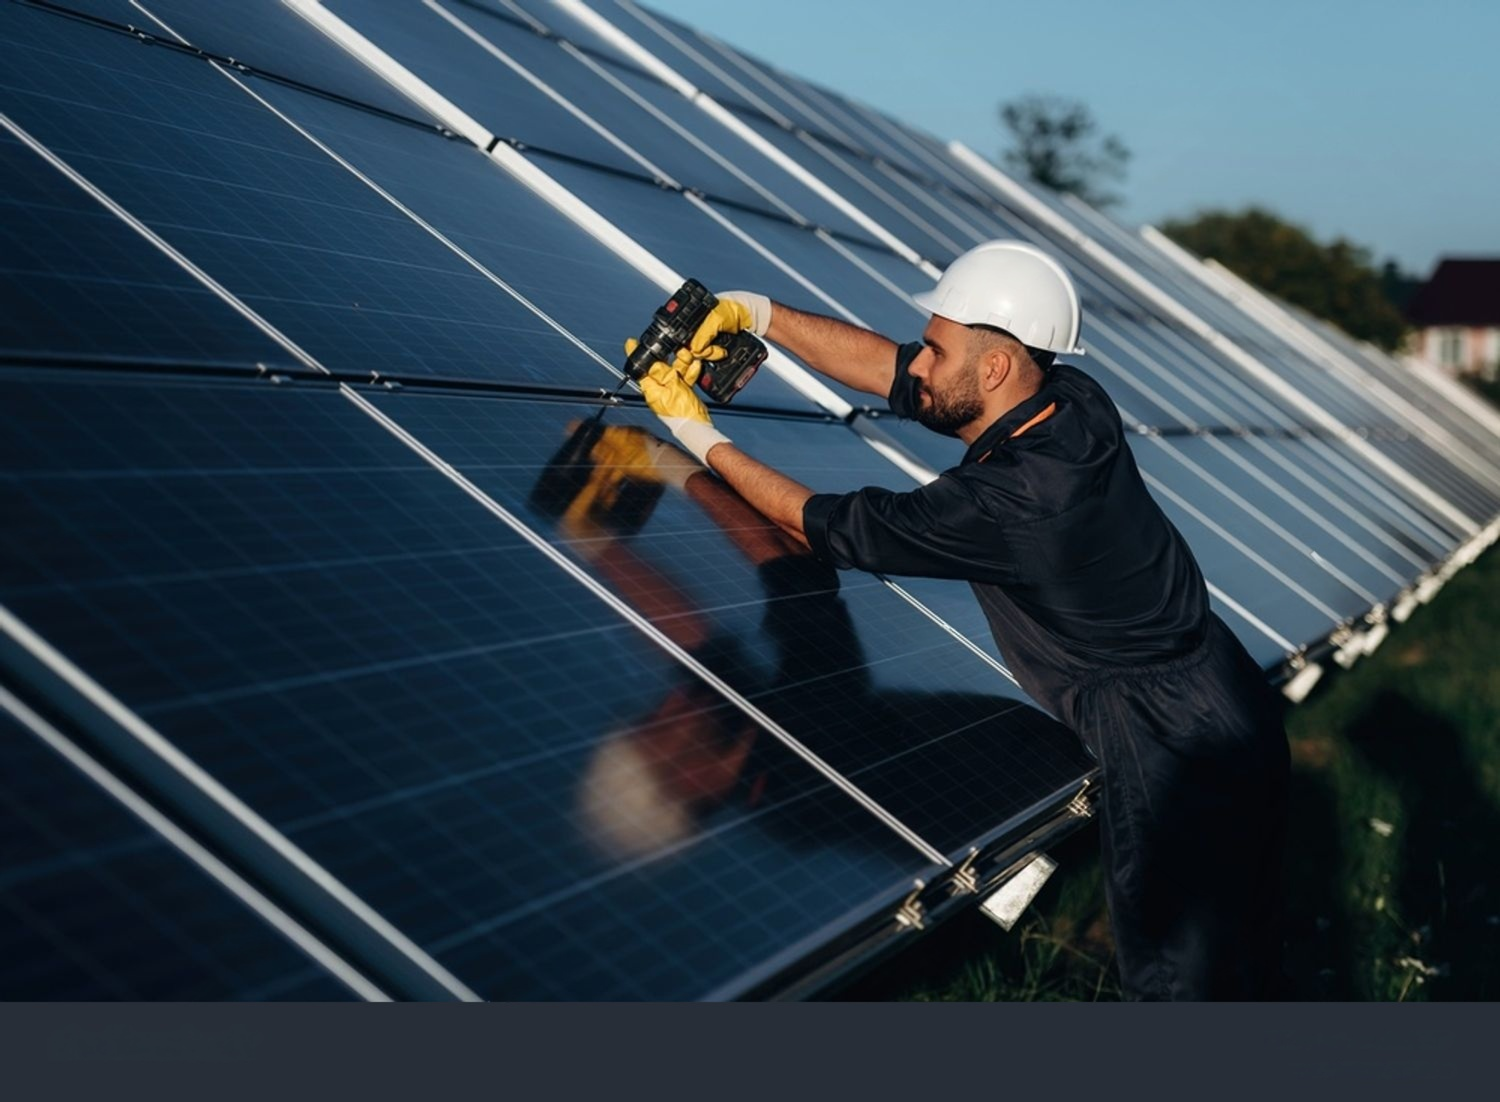
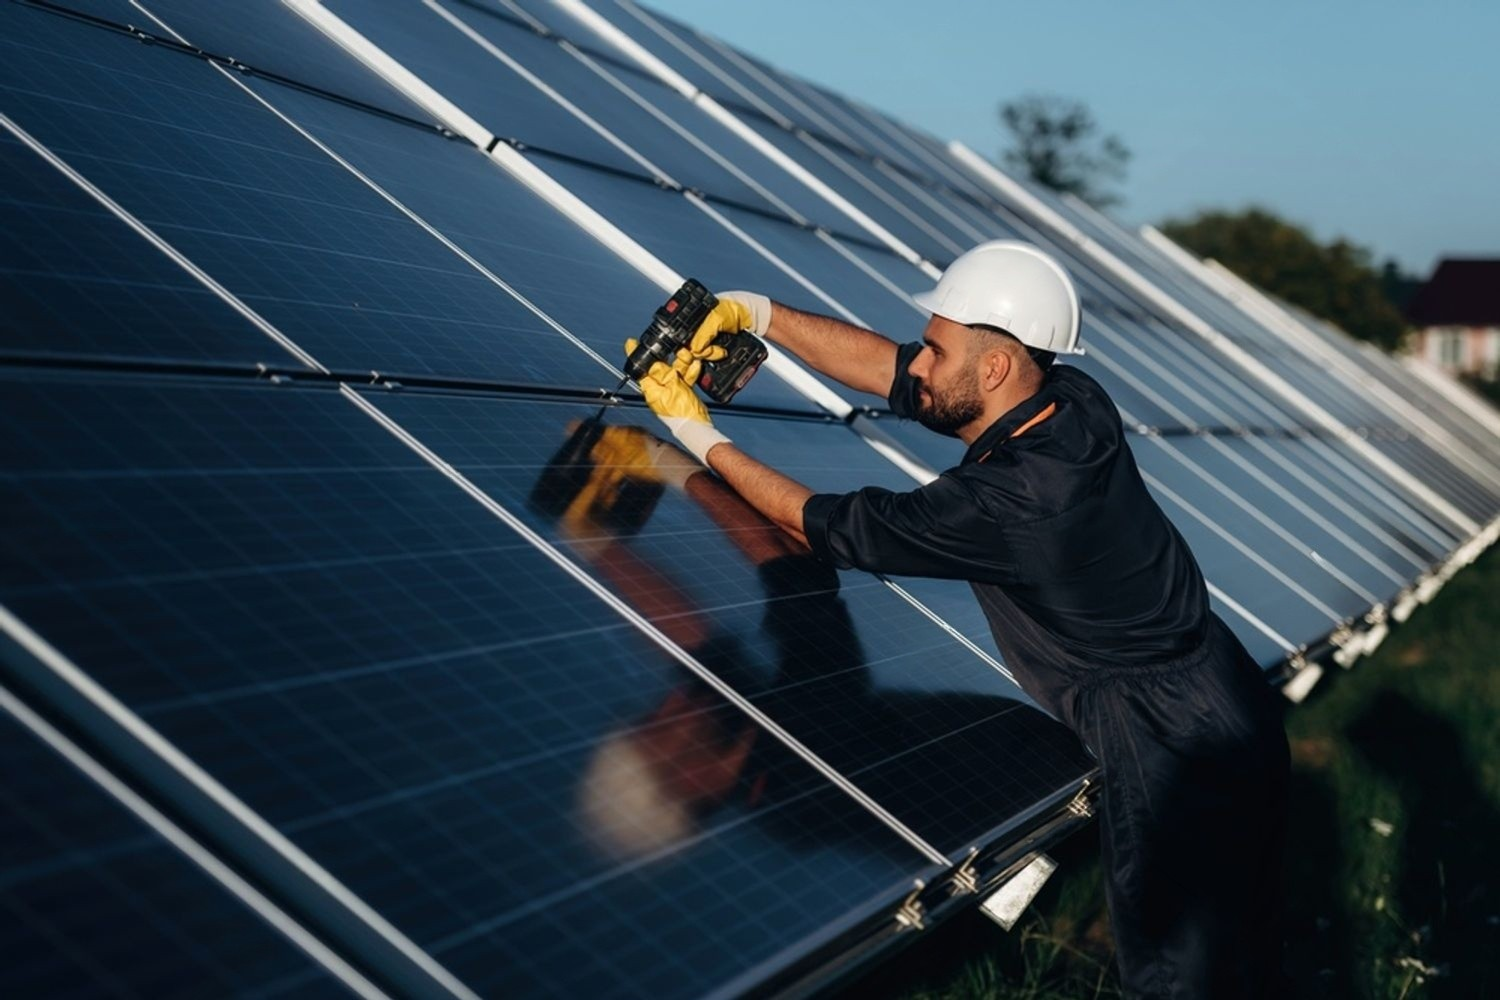
Phase 24 refactor: Refactor About Us hero layout using why exist.png and scroll-linked scrub animation, scale up homepage services cards heights

diff --git a/PROGRESS.md b/PROGRESS.md
@@ -1,6 +1,8 @@
 # ViYukti Project Progress
 
 ## [2026-06-22] Phase 24: SmartGenesis.io Premium Theme & Sectors Grid Image Integration
+- **About Us Hero Redesign & Scroll Scrubbing**: Converted the About Us page ([about-us.astro](file:///C:/Users/bhara/OneDrive/Desktop/client/src/pages/about-us.astro)) Hero section into a 2-column grid (`max-w-7xl`). Set up the left-aligned hero texts on the left and the new graphic asset (`why exist.png`) on the right. Configured GSAP ScrollTrigger matches for scroll scrubbing animations (sliding on desktop, static/centered on mobile).
+- **Service Cards Visual Scale-Up**: Increased the image container height in the homepage services slider from `h-56` to `h-64` and the overall card height from `h-[460px]` to `h-[490px]`, making the sliding cards' sector images more prominent and visually striking.
 - **Services Hero Redesign & Scroll Scrubbing**: Converted the services detail page ([[slug].astro](file:///C:/Users/bhara/OneDrive/Desktop/client/src/pages/services/%5Bslug%5D.astro)) hero section into a spacious 2-column layout (`max-w-7xl`). Configured it to map and display the new sector-specific images (`recruitment and staffing1.jpeg`, `digital marketing 1.jpg`, `it dev and support 1.jpeg`, `realestate 1.jpeg`, `corporate gifting 1.jpeg`, `solar plant 1.jpeg`) on the right, and the left-aligned hero text on the left. Implemented a scroll-linked GSAP scrub parallax animation (sliding on desktop, static/centered on mobile).
 - **Static Badges Override**: Removed the `gsap-reveal` sliding animation classes from the homepage domain name badge (`viyuktigroup.com`) and the service page category badges (e.g., `Recruitment & Staffing`) to keep them completely static and anchored in place.
 - **Why ViYukti Exists Layout & Scroll Scrubbing**: Reconstructed the "Why ViYukti Exists" section in [about-us.astro](file:///C:/Users/bhara/OneDrive/Desktop/client/src/pages/about-us.astro) into a 2-column layout (`max-w-7xl`) with the text left-aligned and the page asset (`about us.jpg`) displayed on the right as a clean, unboxed image. Configured a scroll-linked GSAP scrub animation that matches the Quote section (desktop sliding, mobile centered).
